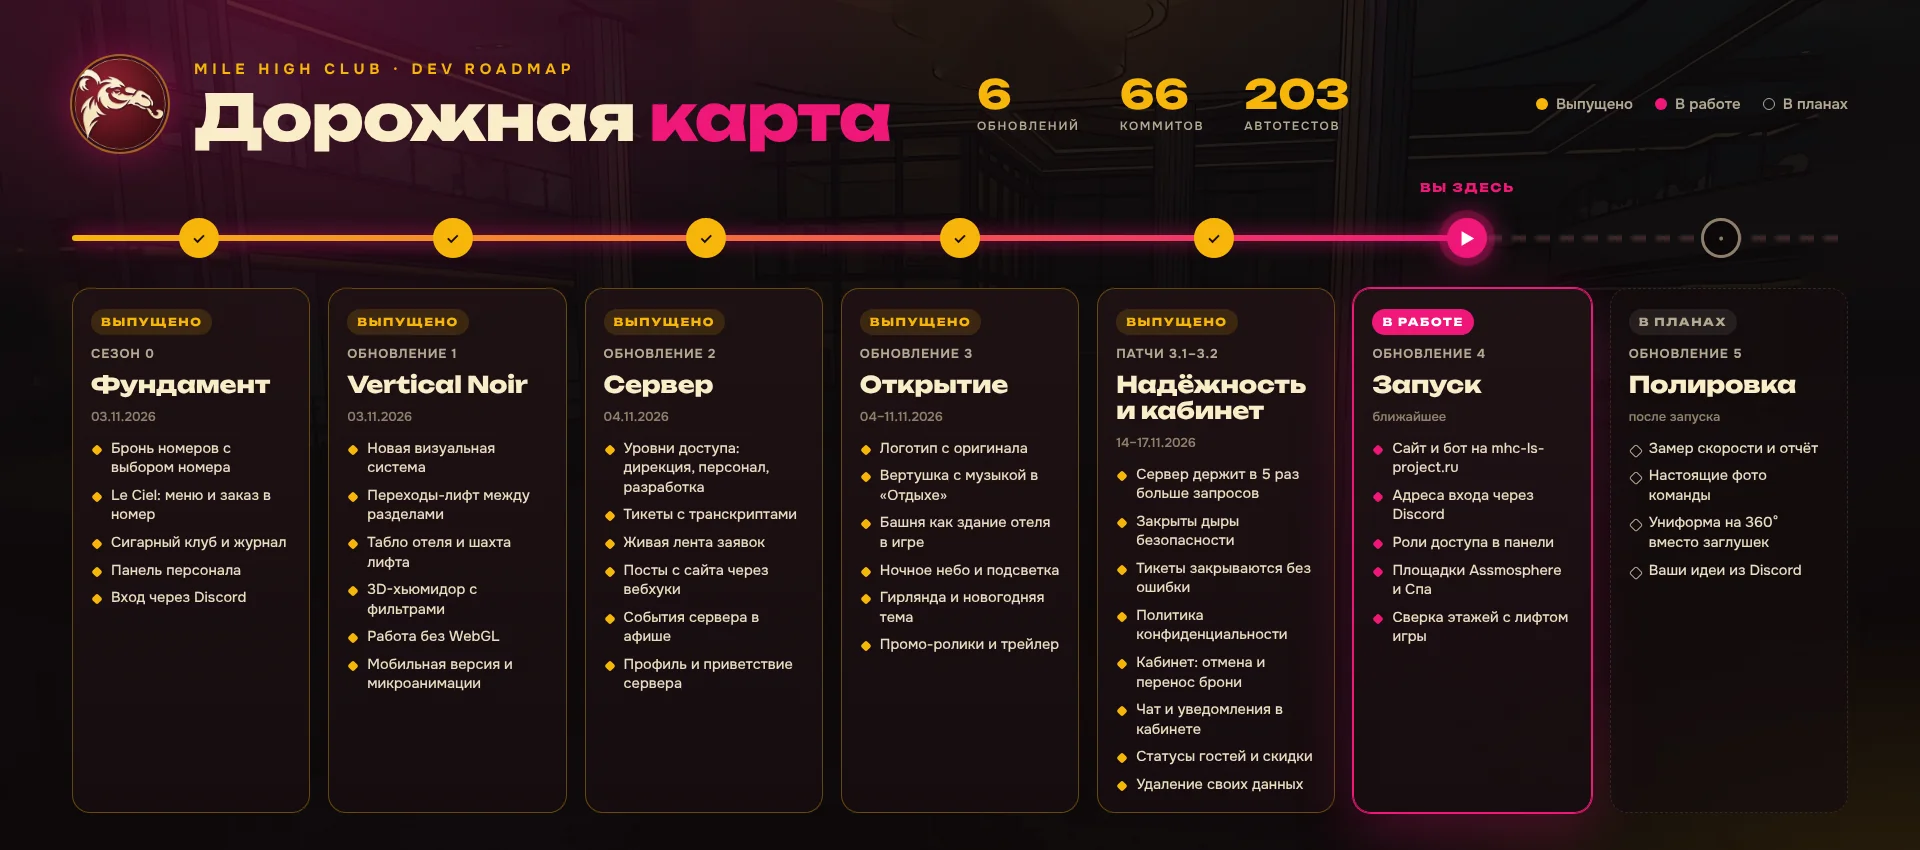
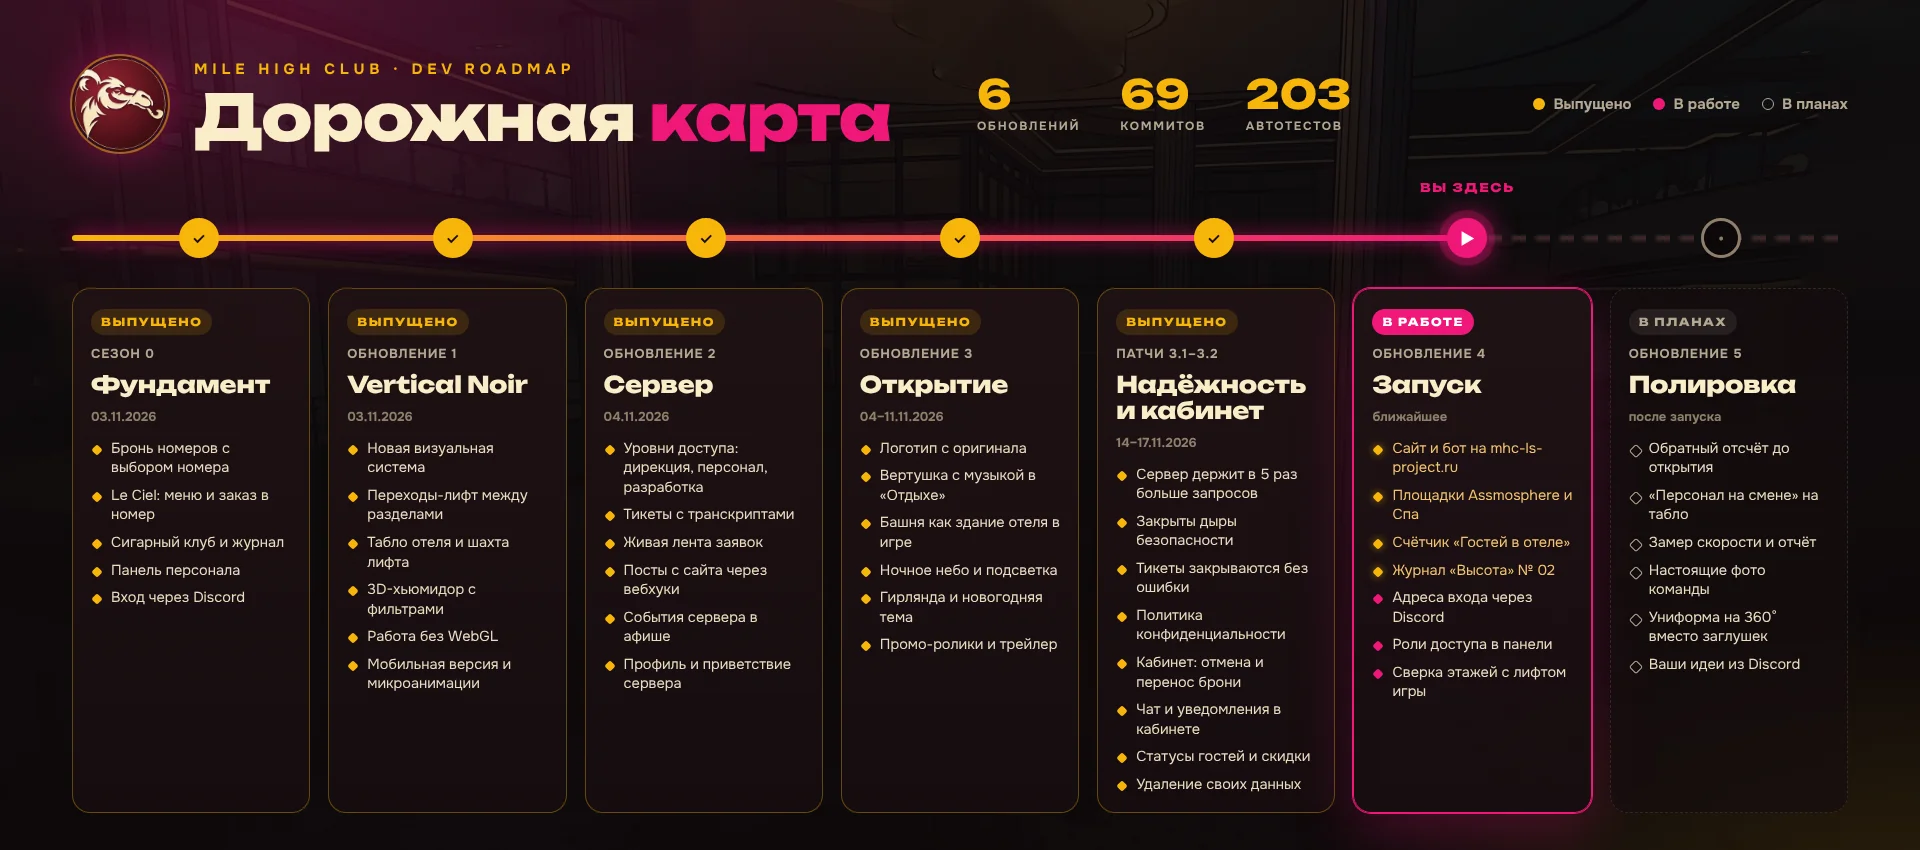
Дорожная карта: прогресс «Запуска» и новые планы
- «Запуск»: сайт и бот на сервере, Assmosphere и Спа, счётчик «Гостей в отеле», журнал «Высота» № 02 — выполнено
- «Полировка»: обратный отсчёт до открытия, «Персонал на смене» на табло
- картинка карты: локальные шрифты вместо Google Fonts, CHROME_PATH для рендера, 67 коммитов

diff --git a/docs/roadmap/roadmap.html b/docs/roadmap/roadmap.html
@@ -1,5 +1,14 @@
 <!doctype html><meta charset="utf-8">
-<link rel="stylesheet" href="https://fonts.googleapis.com/css2?family=Unbounded:wght@600;700;800&family=Onest:wght@400;500;600;700&display=swap">
+<style>/* шрифты из проекта: картинка собирается и без доступа к Google Fonts */
+@font-face{font-family:Unbounded;font-weight:600;src:url(../../promo/fonts/unbounded-cyrillic-600-normal.woff2) format("woff2");unicode-range:U+0400-045F,U+0490-0491,U+04B0-04B1,U+2116}
+@font-face{font-family:Unbounded;font-weight:600;src:url(../../promo/fonts/unbounded-latin-600-normal.woff2) format("woff2");unicode-range:U+0000-00FF,U+2000-206F,U+20AC,U+2122}
+@font-face{font-family:Unbounded;font-weight:700 800;src:url(../../promo/fonts/unbounded-cyrillic-800-normal.woff2) format("woff2");unicode-range:U+0400-045F,U+0490-0491,U+04B0-04B1,U+2116}
+@font-face{font-family:Unbounded;font-weight:700 800;src:url(../../promo/fonts/unbounded-latin-800-normal.woff2) format("woff2");unicode-range:U+0000-00FF,U+2000-206F,U+20AC,U+2122}
+@font-face{font-family:Onest;font-weight:400 500;src:url(../../promo/fonts/onest-cyrillic-400-normal.woff2) format("woff2");unicode-range:U+0400-045F,U+0490-0491,U+04B0-04B1,U+2116}
+@font-face{font-family:Onest;font-weight:400 500;src:url(../../promo/fonts/onest-latin-400-normal.woff2) format("woff2");unicode-range:U+0000-00FF,U+2000-206F,U+20AC,U+2122}
+@font-face{font-family:Onest;font-weight:600 700;src:url(../../promo/fonts/onest-cyrillic-700-normal.woff2) format("woff2");unicode-range:U+0400-045F,U+0490-0491,U+04B0-04B1,U+2116}
+@font-face{font-family:Onest;font-weight:600 700;src:url(../../promo/fonts/onest-latin-700-normal.woff2) format("woff2");unicode-range:U+0000-00FF,U+2000-206F,U+20AC,U+2122}
+</style>
 <style>
 :root{--bg:#0d0809;--card:#1a1012;--line:#3a2326;--fg:#F9EDC7;--mut:#B3A792;--pink:#F0177A;--gold:#F7B50A;--done:#F2C46D;--soft:#8f7f6c}
 *{box-sizing:border-box}
@@ -7,6 +16,7 @@ body{margin:0;width:1920px;height:960px;background:var(--bg);color:var(--fg);fon
 .bgimg{position:absolute;inset:0;background:url(../../public/img/layers/atrium-night-far.webp) center/cover;opacity:.16;filter:saturate(1.2)}
 .glow{position:absolute;inset:0;background:radial-gradient(900px 500px at 15% 0%,rgba(240,23,122,.28),transparent 70%),radial-gradient(800px 500px at 100% 100%,rgba(247,181,10,.14),transparent 70%),linear-gradient(180deg,rgba(13,8,9,.3),rgba(13,8,9,.92) 60%)}
 .wrap{position:relative;padding:56px 72px 0}
+.now li.ok{color:var(--done)}.now li.ok::before{background:var(--gold);box-shadow:0 0 8px rgba(247,181,10,.6)}
 header{display:flex;align-items:center;gap:26px}
 header img{width:96px;height:96px;border-radius:50%;box-shadow:0 0 0 2px rgba(247,181,10,.5),0 0 40px rgba(240,23,122,.45)}
 .eb{font:700 15px Onest;letter-spacing:.32em;color:var(--gold);text-transform:uppercase}
@@ -47,7 +57,7 @@ li.ok::before{background:var(--gold)}
 <div class="bgimg"></div><div class="glow"></div>
 <div class="wrap">
 <header><img src="../../public/img/emblem.webp" alt=""><div><div class="eb">Mile High Club · dev roadmap</div><h1>Дорожная <span>карта</span></h1></div>
-<div class="stats"><div><span class="big">6</span><small>обновлений</small></div><div><span class="big">66</span><small>коммитов</small></div><div><span class="big">203</span><small>автотестов</small></div></div>
+<div class="stats"><div><span class="big">6</span><small>обновлений</small></div><div><span class="big">69</span><small>коммитов</small></div><div><span class="big">203</span><small>автотестов</small></div></div>
 <div class="legend"><span><i style="background:var(--gold)"></i>Выпущено</span><span><i style="background:var(--pink)"></i>В работе</span><span><i style="border:1.5px solid var(--mut)"></i>В планах</span></div></header>
 
 <div class="track"><div class="rail"></div><div class="prog" style="--p:78.5"></div>
@@ -70,9 +80,9 @@ li.ok::before{background:var(--gold)}
 <li>Сервер держит в 5 раз больше запросов</li><li>Закрыты дыры безопасности</li><li>Тикеты закрываются без ошибки</li><li>Политика конфиденциальности</li><li>Кабинет: отмена и перенос брони</li><li>Чат и уведомления в кабинете</li><li>Статусы гостей и скидки</li><li>Удаление своих данных</li></ul></div>
 
 <div class="c now"><span class="tag">В РАБОТЕ</span><div class="ver">ОБНОВЛЕНИЕ 4</div><h2>Запуск</h2><div class="date">ближайшее</div><ul>
-<li>Сайт и бот на mhc-ls-project.ru</li><li>Адреса входа через Discord</li><li>Роли доступа в панели</li><li>Площадки Assmosphere и Спа</li><li>Сверка этажей с лифтом игры</li></ul></div>
+<li class="ok">Сайт и бот на mhc-ls-project.ru</li><li class="ok">Площадки Assmosphere и Спа</li><li class="ok">Счётчик «Гостей в отеле»</li><li class="ok">Журнал «Высота» № 02</li><li>Адреса входа через Discord</li><li>Роли доступа в панели</li><li>Сверка этажей с лифтом игры</li></ul></div>
 
 <div class="c plan"><span class="tag">В ПЛАНАХ</span><div class="ver">ОБНОВЛЕНИЕ 5</div><h2>Полировка</h2><div class="date">после запуска</div><ul>
-<li>Замер скорости и отчёт</li><li>Настоящие фото команды</li><li>Униформа на 360° вместо заглушек</li><li>Ваши идеи из Discord</li></ul></div>
+<li>Обратный отсчёт до открытия</li><li>«Персонал на смене» на табло</li><li>Замер скорости и отчёт</li><li>Настоящие фото команды</li><li>Униформа на 360° вместо заглушек</li><li>Ваши идеи из Discord</li></ul></div>
 </div></div>
 <div class="foot"><span>Сайт отеля и Discord-бот · Node.js, three.js, discord.js</span><span>Обновлено 17.11.2026</span></div>

diff --git a/README.md b/README.md
@@ -47,13 +47,17 @@
 ![Дорожная карта](docs/img/roadmap.webp)
 
 ### 🛠 Сейчас в работе · Обновление 4 «Запуск»
-- [ ] Сайт и бот на сервере, домен `mhc-ls-project.ru`
+- [x] Сайт и бот на сервере, домен `mhc-ls-project.ru`
+- [x] Площадки Assmosphere и Спа (Спа — «скоро открытие»)
+- [x] Счётчик «Гостей в отеле»: онлайн сервера на табло главной и в шапке, без упоминания Discord
+- [x] Журнал «Высота» № 02 — спецвыпуск к открытию
 - [ ] Адреса входа через Discord на новом домене
 - [ ] Роли доступа в панели: «Доступ и анонсы»
-- [ ] Площадки Assmosphere и Спа
 - [ ] Сверка этажей: на сайте 7 этажей номеров, в лифте игры 6
 
 ### 🔭 В планах · Обновление 5 «Полировка»
+- [ ] Обратный отсчёт до открытия отеля на главной (нужна дата)
+- [ ] «Персонал на смене» на табло: сколько сотрудников сейчас в сети (нужен интент присутствия у бота)
 - [ ] Замер скорости загрузки и отчёт
 - [ ] Настоящие фото команды в анкетах
 - [ ] Фото униформы на 360° вместо заглушек
